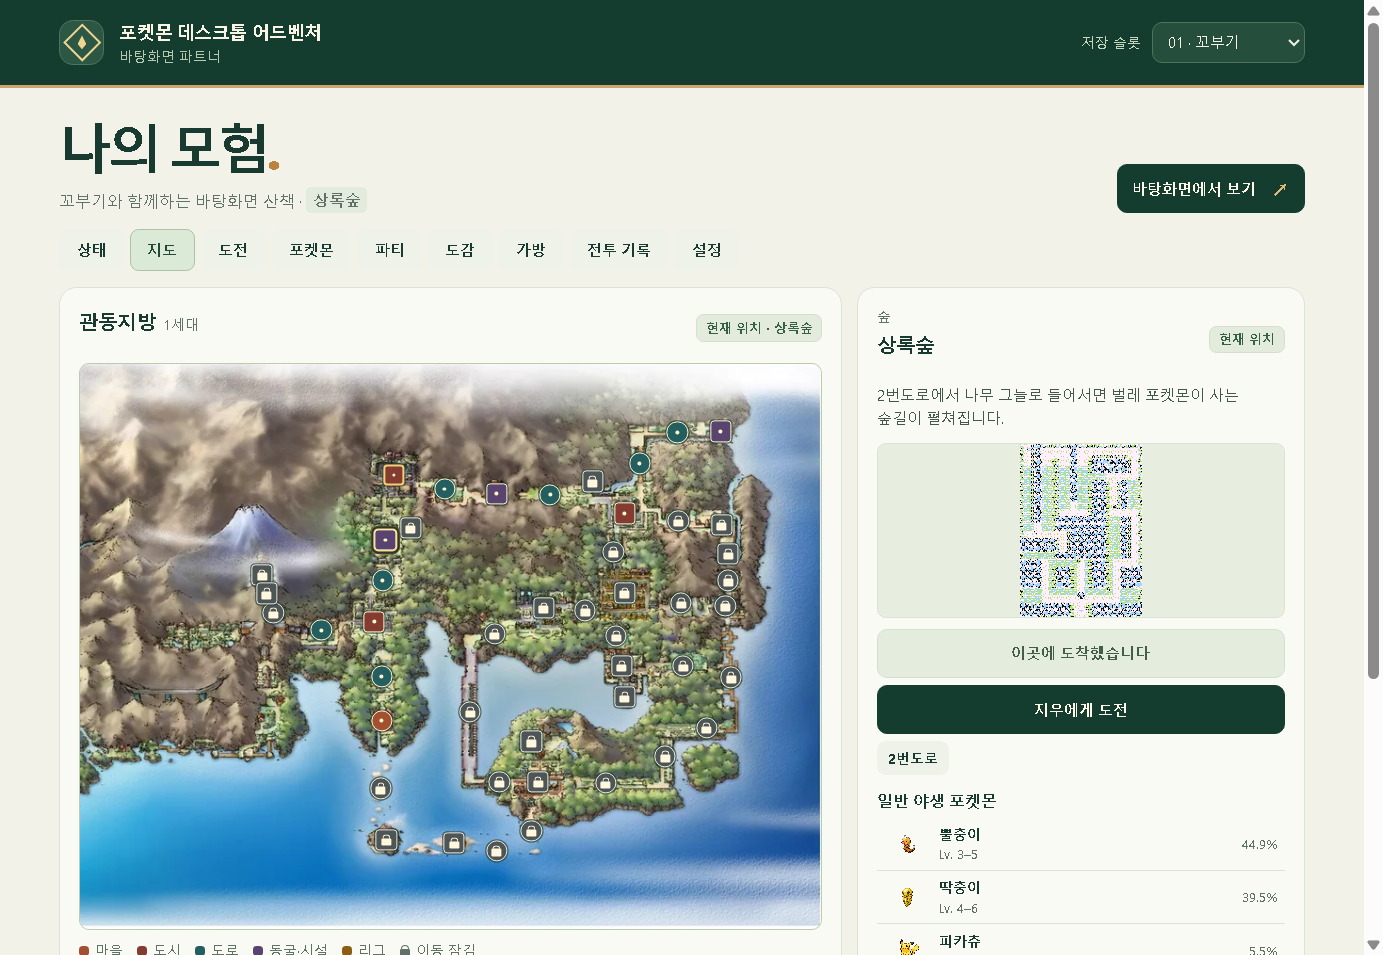
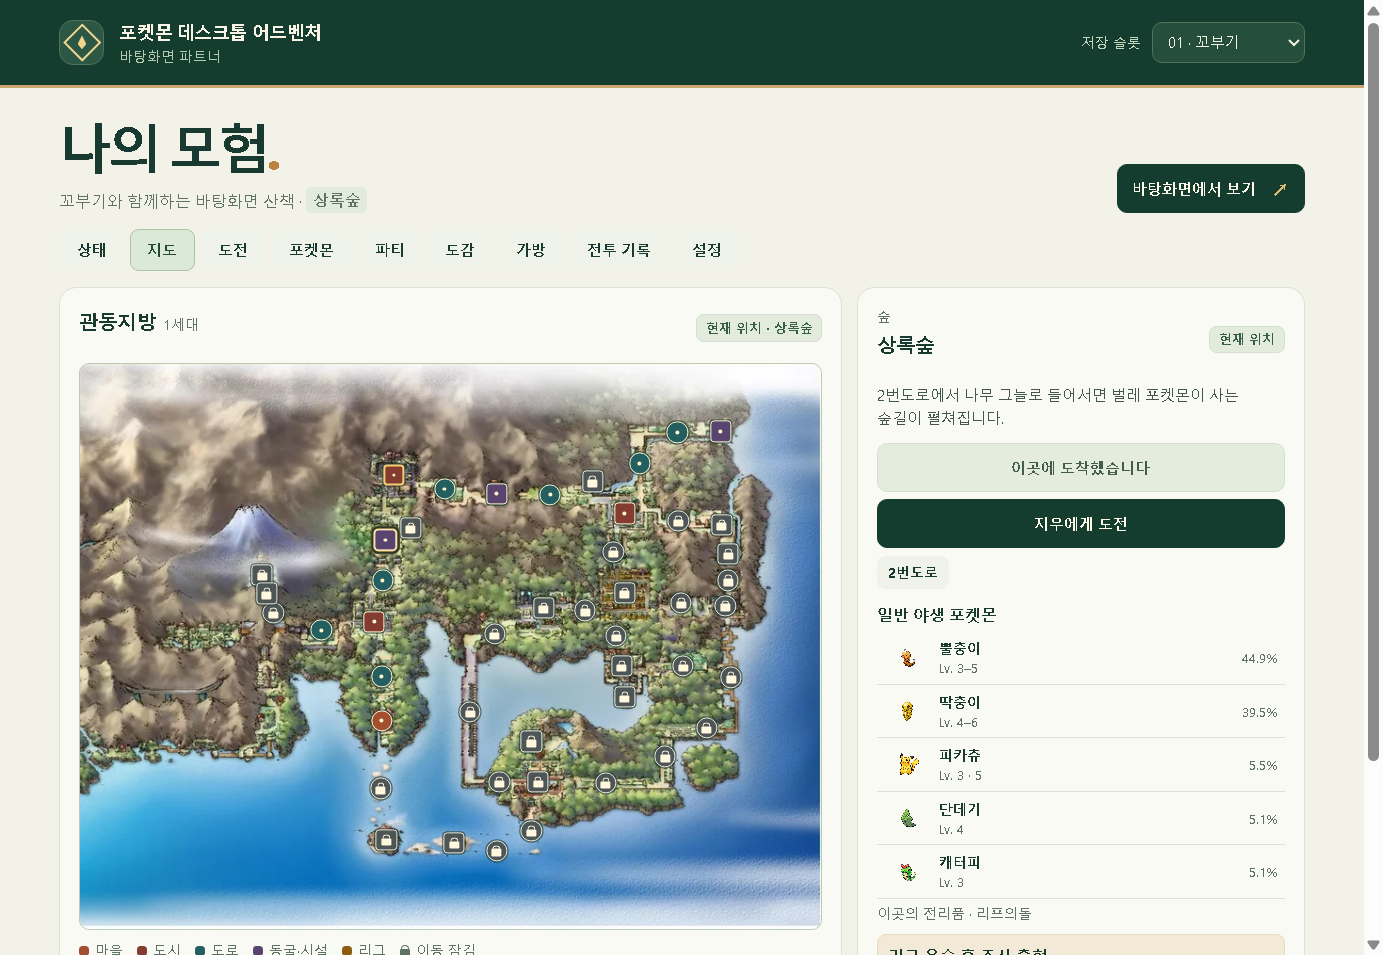
Remove the terrain inset below map location descriptions

Changed region(s): [[0.6218, 0.4555, 0.9328, 1.0], [0.9638, 0.6984, 1.0, 0.7895], [0.9017, 0.911, 0.9328, 0.9414]]

diff --git a/src/renderer/RegionMap.tsx b/src/renderer/RegionMap.tsx
@@ -215,8 +215,6 @@ export function RegionMap({ game, focus, travel, busy, begin }: {
     ? [...new Set(Object.values(areas))]
       .map(label => ({ label, places: region.locations.filter(place => areas[place.id] === label) }))
     : Object.entries(locationKinds).map(([kind, label]) => ({ label, places: region.locations.filter(place => place.kind === kind) }))
-  const areaImage = game.regionId === 'kanto'
-    ? new URL('maps/kanto/areas/' + selected.id + '.png', document.baseURI).href : undefined
 
   return <div className="kanto-layout">
     <section className="card kanto-map-card" aria-label={region.name + ' 지도'}>
@@ -289,9 +287,6 @@ export function RegionMap({ game, focus, travel, busy, begin }: {
           {...guide.trigger(place, 'nearby-' + place.id, overlap)}
           onClick={() => choose(place.id)}>{placeLabel(place)}</button>)}
       </div>}
-      {areaImage && <figure className="kanto-area-preview">
-        <img src={areaImage} alt={selected.name + ' 원작 지형'} draggable={false} />
-      </figure>}
       {locked && <TravelRequirements game={game} access={access} here={isHere} choose={choose} />}
       <button className="primary kanto-travel" disabled={isHere || busy || locked}
         aria-describedby={locked ? 'map-travel-requirements' : undefined} onClick={() => travel(selected.id)}>

diff --git a/src/renderer/region-map.css b/src/renderer/region-map.css
@@ -82,17 +82,6 @@
 .gate-destination:hover, .gate-destination:focus-visible { border-color: #816947; }
 .kanto-picker { margin-top: 6px; }
 .kanto-picker select { width: min(58%, 180px); }
-.kanto-area-preview {
-  display: grid;
-  place-items: center;
-  margin: 0 0 9px;
-  min-height: 95px;
-  overflow: hidden;
-  background: #e7eee0;
-  border: 1px solid #dae4d4;
-  border-radius: 7px;
-}
-.kanto-area-preview img { display: block; max-width: 100%; max-height: 138px; object-fit: contain; image-rendering: pixelated; }
 .kanto-travel { width: 100%; min-height: 33px; }
 .kanto-travel:disabled { background: #e4ecde; color: #435d4b; border-color: #d5dfd0; cursor: default; opacity: 1; }
 .kanto-landmark { margin-top: 9px; padding: 6px 8px; border-radius: 6px; background: #eee7d4; color: #715830; font-size: 11px; }

diff --git a/tests/locationAccessMap.test.tsx b/tests/locationAccessMap.test.tsx
@@ -22,6 +22,16 @@ function render(game: GameSave, focus: string) {
   return { html, action }
 }
 
+it('shows the regional map and location description without loading a terrain inset for any Kanto destination', () => {
+  const game = opening('kanto')
+  for (const place of worldRegions.kanto.locations) {
+    const { html } = render(game, place.id)
+    expect(html).toContain('maps/kanto/illustrated-map.png')
+    expect(html).toContain('class="kanto-place-description"')
+    expect(html.includes('maps/kanto/areas/'), place.id).toBe(false)
+  }
+})
+
 it.each(regionOrder)('keeps locked %s destinations selectable and shows where to earn entry', id => {
   const game = opening(id)
   const region = worldRegions[id]
